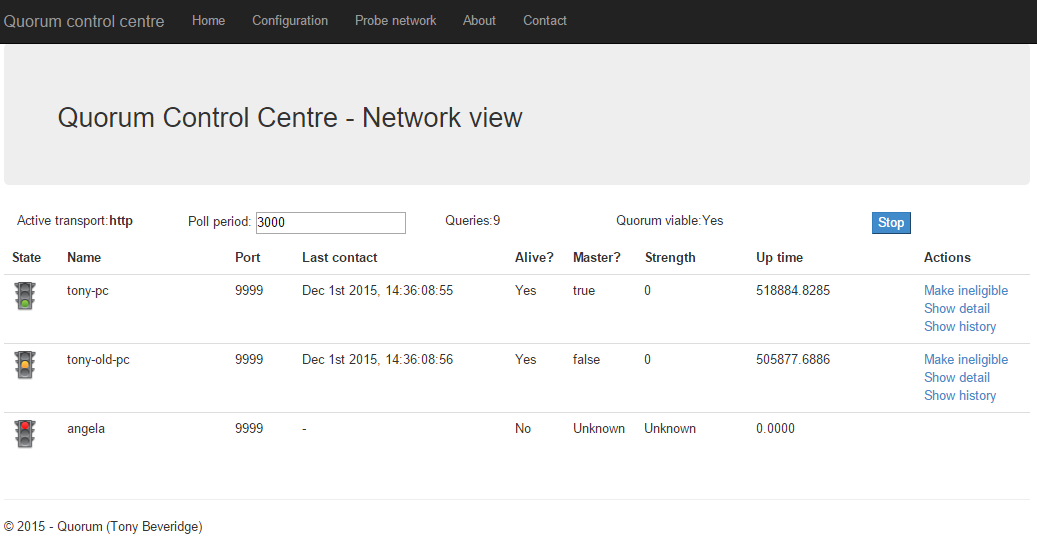
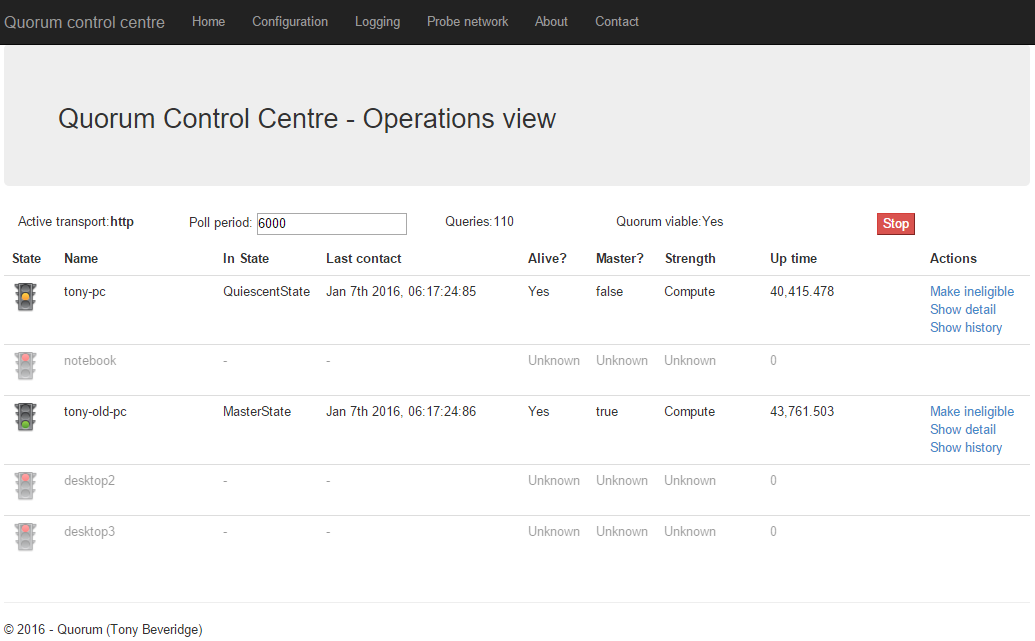
Update wiki images and some UI text
Update wiki images and some UI text

diff --git a/Quorum/Integration/Http/HttpWriteableChannel.cs b/Quorum/Integration/Http/HttpWriteableChannel.cs
@@ -29,7 +29,7 @@ namespace Quorum.Integration.Http {
                 var response = Task.Run(() => request.Client.SendAsync(msg), cts.Token).Result;
                 cts.Dispose();
                 string result = null;
-                LogFacade.Instance.LogDebug("Success?: " + response.IsSuccessStatusCode);
+                LogFacade.Instance.LogDebug("Success?: " + response.IsSuccessStatusCode + ", code: " + response.StatusCode);
                 if (response.IsSuccessStatusCode)
                     result = await response.Content.ReadAsStringAsync();
                 LogFacade.Instance.LogDebug("Content read: " + result);
